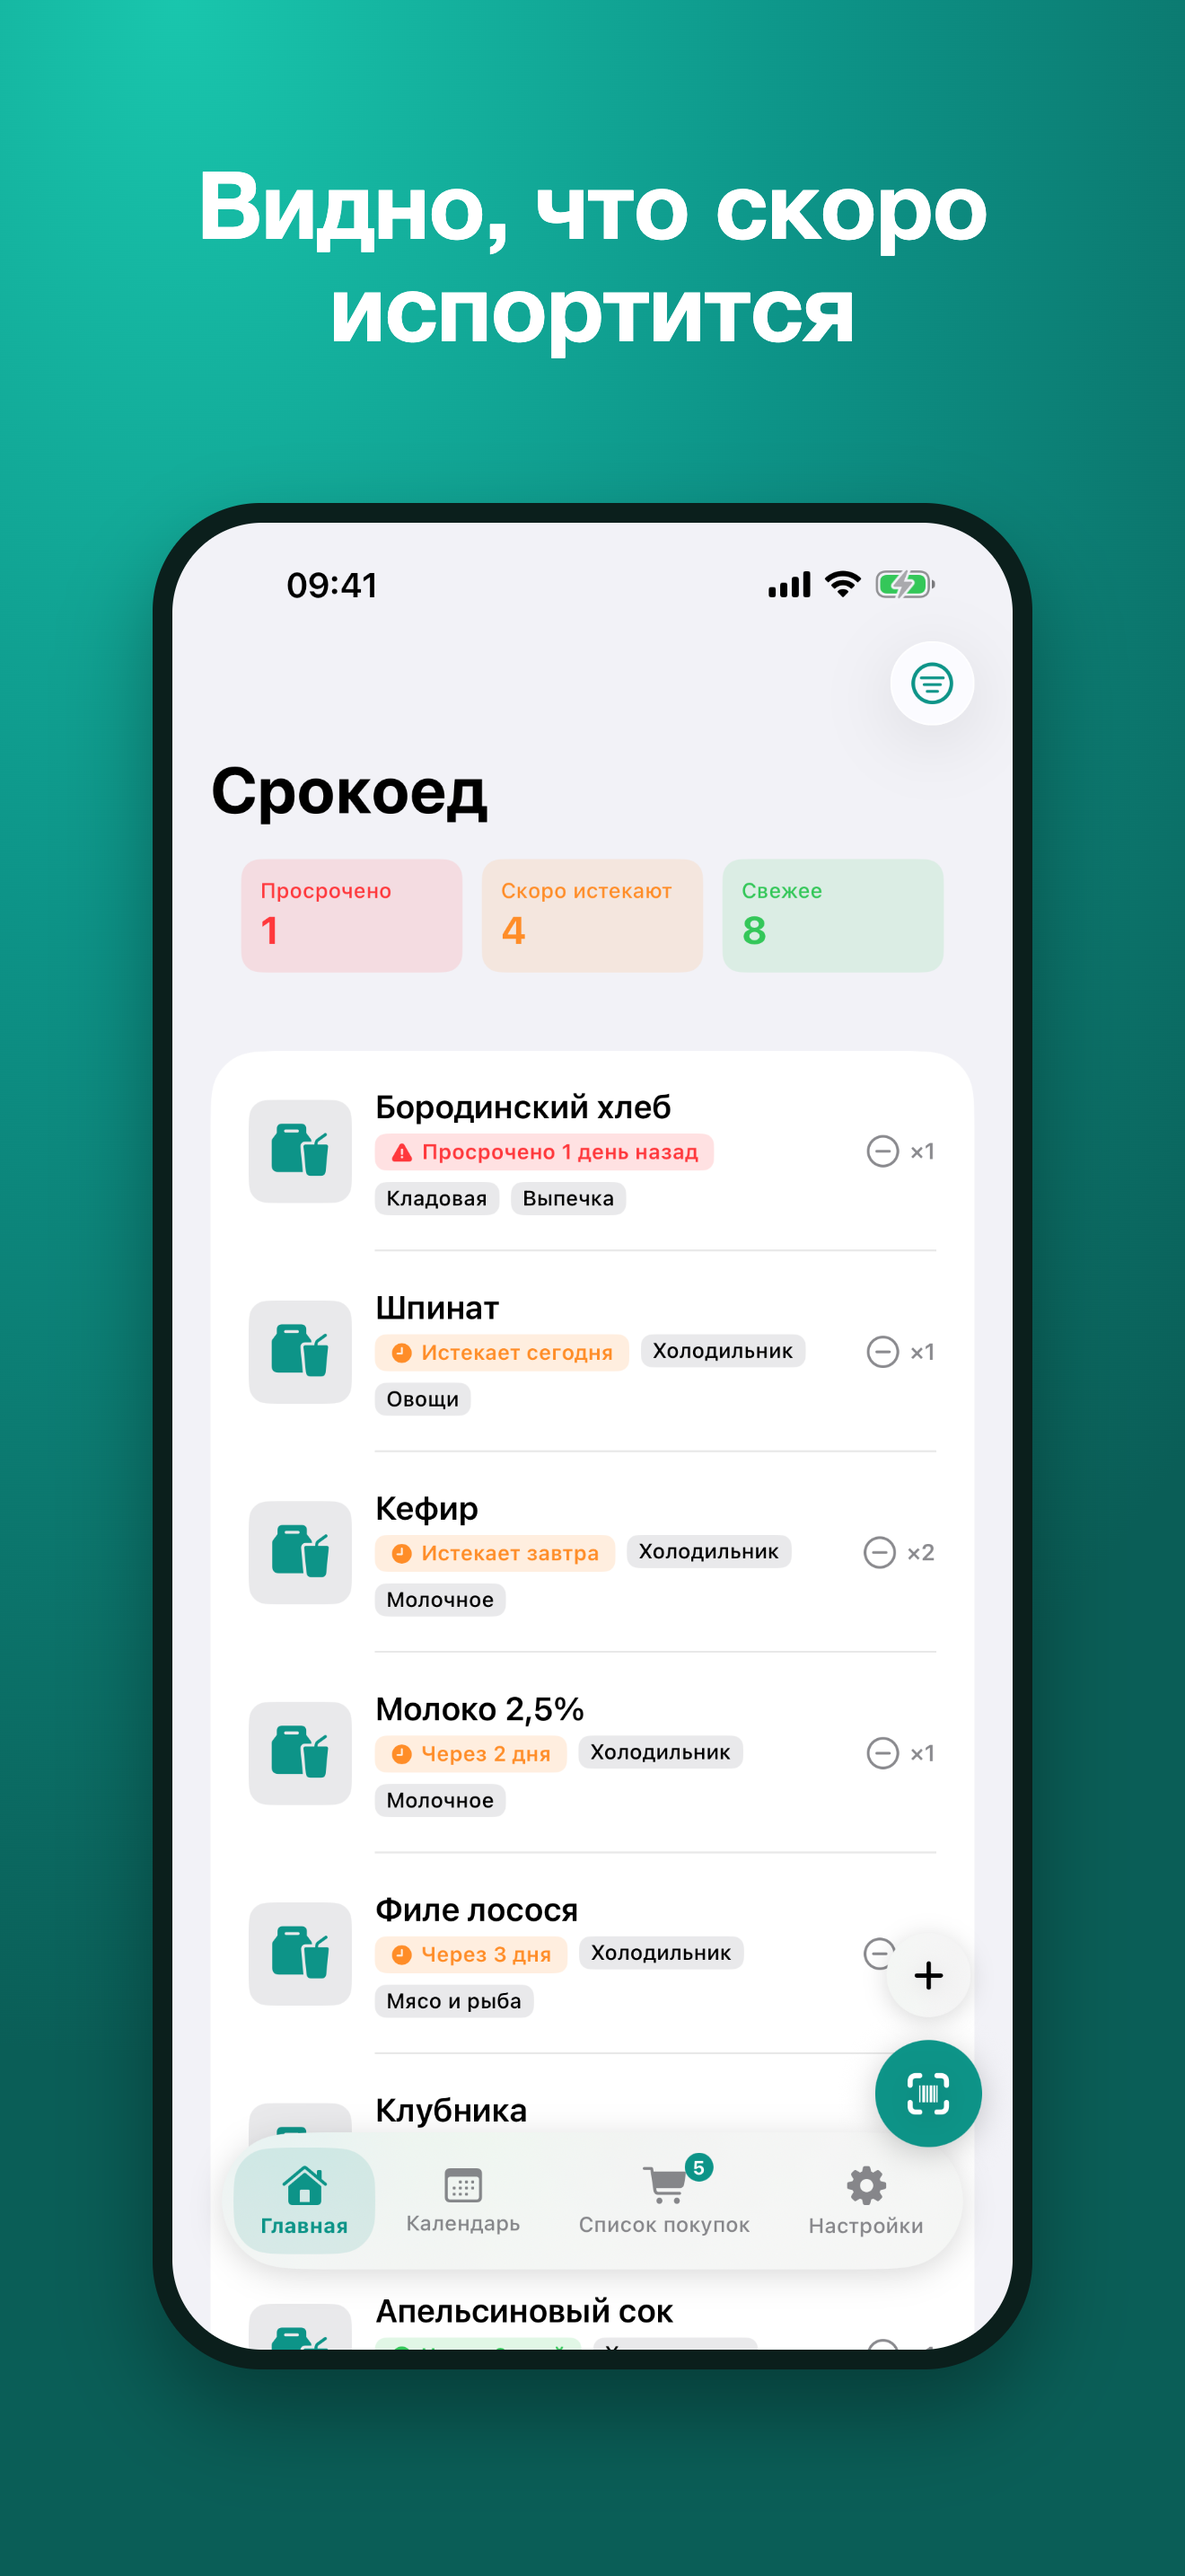
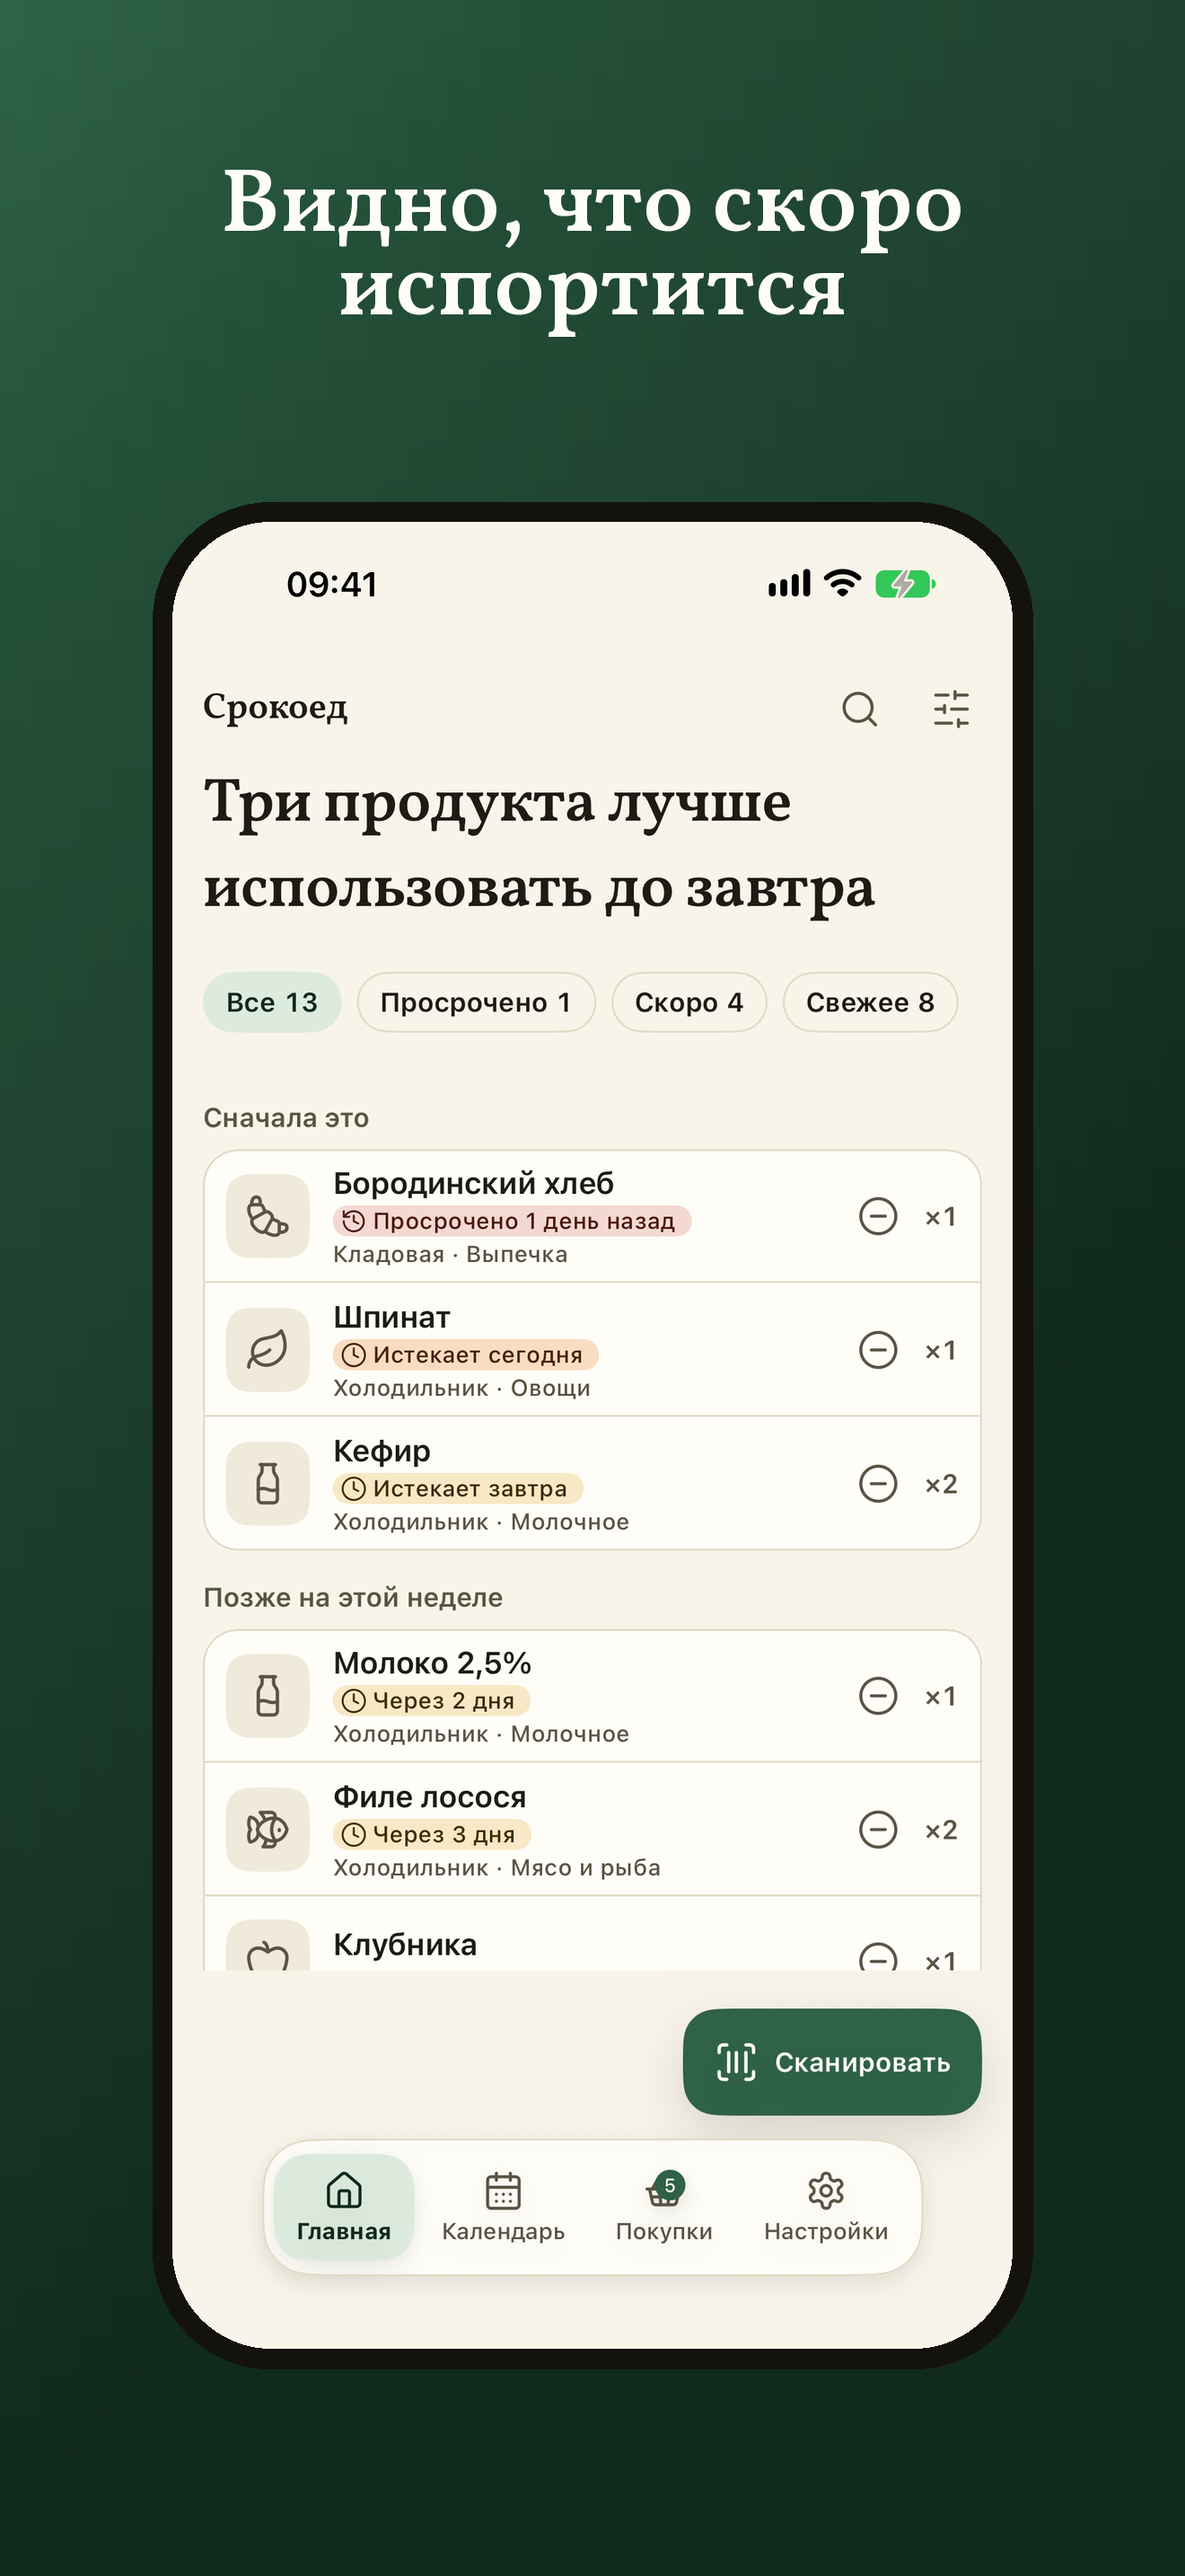
Retake the Play and 6.9" App Store screenshots in Larder
Adds scripts/android_screenshots.sh, which loads the demo pantry
through debug-only demoBackup and demoTab intent extras, the
counterpart of iOS's launch arguments. The demo pantry moves into
scripts/demo_backup.py, shared by both scripts, with fixed item ids.
Frames use Larder's greens and Vollkorn captions, and the framer now
writes the Play set at 1080x1920. The iOS script waits until a fresh
simulator draws before capturing.

Claude-Session: https://claude.ai/code/session_01RnV2HAF2qyceRJWfWWkDND

diff --git a/androidApp/src/main/java/com/foodtracker/android/MainActivity.kt b/androidApp/src/main/java/com/foodtracker/android/MainActivity.kt
@@ -16,7 +16,9 @@ import androidx.compose.runtime.mutableStateOf
 import androidx.core.content.ContextCompat
 import com.foodtracker.android.location.StoreGeofenceManager
 import com.foodtracker.android.ui.FoodTrackerRoot
+import com.foodtracker.android.ui.navigation.AddItemMode
 import com.foodtracker.android.ui.navigation.LarderRoute
+import com.foodtracker.backup.RestoreMode
 import com.foodtracker.android.util.shareRecipePrompt
 import com.foodtracker.viewmodel.PantryStateHolder
 import com.google.android.gms.location.LocationServices
@@ -65,6 +67,7 @@ class MainActivity : ComponentActivity() {
         // app from the launcher landing on Add Item. A newer intent that caused the recreation
         // arrives separately through onNewIntent.
         if (savedInstanceState == null) {
+            if (isDebuggable()) loadDemoFromIntent(intent)
             applyScreenFromIntent(intent)
         }
         // Re-asserted on every start rather than only when Settings changes: geofences are
@@ -84,6 +87,39 @@ class MainActivity : ComponentActivity() {
             )
         }
     }
+
+    /**
+     * Debug builds only, for scripts/android_screenshots.sh: `--es demoBackup <path>` replaces
+     * everything with that backup file, as Settings' Replace restore does, and `--es demoTab
+     * <home|calendar|shopping|settings>` opens that tab, or `edit:<item id>` that item's Edit
+     * screen. The counterpart of iOS's `-demoBackup` and `-demoTab` launch arguments. A restore
+     * also marks onboarding done, so onboarding is skipped from the next launch on.
+     */
+    private fun loadDemoFromIntent(intent: Intent) {
+        intent.getStringExtra(EXTRA_DEMO_BACKUP)?.let { path ->
+            val raw = runCatching { java.io.File(path).readText() }.getOrNull()
+            if (raw == null) {
+                android.util.Log.w("DemoBackup", "Can't read $path")
+            } else {
+                stateHolder.restoreBackup(raw, RestoreMode.REPLACE) { result, summary ->
+                    android.util.Log.i("DemoBackup", "$result, $summary")
+                }
+            }
+        }
+        val tab = intent.getStringExtra(EXTRA_DEMO_TAB)
+        when {
+            tab == null -> Unit
+            tab.startsWith("edit:") ->
+                currentScreenState.value = LarderRoute.AddItem(AddItemMode.Edit(tab.removePrefix("edit:")))
+            tab == "home" -> currentScreenState.value = LarderRoute.Home
+            tab == "calendar" -> currentScreenState.value = LarderRoute.Calendar
+            tab == "shopping" -> currentScreenState.value = LarderRoute.Shopping
+            tab == "settings" -> currentScreenState.value = LarderRoute.Settings
+        }
+    }
+
+    private fun isDebuggable(): Boolean =
+        (applicationInfo.flags and android.content.pm.ApplicationInfo.FLAG_DEBUGGABLE) != 0
 
     /** Re-derives the pantry when the date may have moved under it. See
      *  [PantryStateHolder.refreshToday] for why its own midnight timer isn't enough. */
@@ -234,6 +270,9 @@ class MainActivity : ComponentActivity() {
     }
 
     companion object {
+        private const val EXTRA_DEMO_BACKUP = "demoBackup"
+        private const val EXTRA_DEMO_TAB = "demoTab"
+
         const val EXTRA_OPEN_SHOPPING_LIST = "com.foodtracker.android.EXTRA_OPEN_SHOPPING_LIST"
 
         /** Sent by the expiry widgets' title taps and the expiry/digest notification taps.

diff --git a/scripts/frame_screenshots.py b/scripts/frame_screenshots.py
@@ -1,14 +1,20 @@
 #!/usr/bin/env python3
-"""Frames raw simulator screenshots for the App Store: a caption on the teal gradient above the
-screenshot in a dark device bezel, the same style as the existing 6.9" iPhone and 13" iPad sets.
+"""Frames raw screenshots for the stores: a caption on a Larder green gradient above the
+screenshot in a dark device bezel.
 
     scripts/ios_screenshots.sh build/raw                 # raw captures, one folder per language
     scripts/frame_screenshots.py build/raw duo-inner-screenshots
 
-reads <raw>/<lang>/<n>-<tab>.png (as ios_screenshots.sh writes them) and writes
+    scripts/android_screenshots.sh build/raw-android
+    scripts/frame_screenshots.py build/raw-android phone-screenshots
+
+reads <raw>/<lang>/<n>-<tab>.png (as those scripts write them). An App Store set is written to
 store-listing/app-store/<listing folder>/<set>/<n>.png at the raw screenshot's own size, which
-is the size App Store Connect wants for that device. Needs Pillow; the captions are set in
-Helvetica Neue Bold from macOS.
+is the size App Store Connect wants for that device. The Google Play set, phone-screenshots,
+goes to store-listing/google-play/<listing folder>/phone-screenshots/<n>.png at 1080x1920: Play
+refuses a screenshot more than twice as tall as it is wide, so the phone runs off the bottom
+edge. Needs Pillow. The colours are Larder's (docs/design/tokens.json) and the captions are set
+in Vollkorn SemiBold, the app's display face.
 """
 import sys
 from pathlib import Path
@@ -16,11 +22,15 @@ from pathlib import Path
 from PIL import Image, ImageDraw, ImageFont
 
 ROOT = Path(__file__).resolve().parent.parent
-FONT = "/System/Library/Fonts/HelveticaNeue.ttc"
-FONT_BOLD_INDEX = 1
+FONT = str(ROOT / "iosApp" / "FoodTracker" / "Resources" / "Fonts" / "Vollkorn-SemiBold.ttf")
+FONT_BOLD_INDEX = 0
 
-# ios_screenshots.sh language code -> store-listing/app-store folder
+# Screenshot script language code -> store-listing/app-store folder
 LISTING_FOLDERS = {"en": "en-GB", "ru": "ru", "nb": "no"}
+# The same for store-listing/google-play
+PLAY_FOLDERS = {"en": "en-GB", "ru": "ru-RU", "nb": "no-NO"}
+PLAY_SET = "phone-screenshots"
+PLAY_SIZE = (1080, 1920)
 
 # One caption per tab, in screenshot order (home, calendar, shopping, settings). "\n" is where a
 # caption breaks on a narrow (iPhone-shaped) screenshot; wider ones put it on one line if it fits.
@@ -32,12 +42,24 @@ CAPTIONS = {
     "nb": ["Se hva som\nsnart går ut", "Ukens datoer\nmed et blikk",
            "Brukt opp? Den\nstår på listen", "Påminnelser når\ndet passer deg"],
 }
+# Google Play has a fifth screenshot, an item's Edit screen, fourth in order.
+EDIT_CAPTIONS = {
+    "en": "Date and storage\nin two taps",
+    "ru": "Срок и место —\nв два касания",
+    "nb": "Dato og plassering\nmed to trykk",
+}
 
-# The background runs from the top-left corner towards the bottom, sampled from the existing sets.
-GRADIENT_STOPS = [(0.0, (22, 185, 163)), (0.25, (17, 166, 149)), (0.5, (12, 126, 116)),
-                  (1.0, (10, 94, 87))]
-BEZEL = (11, 31, 28)
-WHITE = (255, 255, 255)
+
+def play_captions(lang):
+    captions = CAPTIONS[lang]
+    return captions[:3] + [EDIT_CAPTIONS[lang]] + captions[3:]
+
+# The background runs from the top-left corner towards the bottom, through Larder's greens
+# (green.600, 700, 800 and 900 in tokens.json).
+GRADIENT_STOPS = [(0.0, (0x2F, 0x62, 0x46)), (0.25, (0x23, 0x4E, 0x37)), (0.5, (0x1F, 0x43, 0x31)),
+                  (1.0, (0x10, 0x2A, 0x1C))]
+BEZEL = (0x14, 0x12, 0x0D)  # neutral.950
+WHITE = (0xFF, 0xFD, 0xF8)  # neutral.0, the warm white the app uses
 
 
 def gradient(width, height):
@@ -74,10 +96,16 @@ def caption_lines(text, font, max_width, wrap):
     return [one_line] if font.getlength(one_line) <= max_width else text.split("\n")
 
 
-def frame(raw_path, caption, out_path):
+def frame(raw_path, caption, out_path, canvas_size=None):
+    """[canvas_size] other than the screenshot's own size is Play's: the phone keeps the
+    screenshot's shape and runs off the bottom edge."""
     shot = Image.open(raw_path).convert("RGB")
-    width, height = shot.size
+    width, height = canvas_size or shot.size
     spec = layout(width, height)
+    if canvas_size:
+        # Measured from the earlier Play set: a phone 72% of the width, starting 22% down.
+        spec.update(font=0.0765 * width, caption_top=0.06 * height, frame_top=0.22 * height,
+                    bezel=0.0167 * width, radius=0.07 * width, wrap=False, play_width=0.722 * width)
     canvas = gradient(width, height)
     draw = ImageDraw.Draw(canvas)
 
@@ -93,8 +121,12 @@ def frame(raw_path, caption, out_path):
     frame_top = max(spec["frame_top"], caption_bottom + 0.05 * height)
     frame_height = spec["frame_height"] - (frame_top - spec["frame_top"])
     bezel = round(spec["bezel"])
-    screen_height = round(frame_height) - 2 * bezel
-    screen_width = round(screen_height * width / height)
+    if "play_width" in spec:
+        screen_width = round(spec["play_width"]) - 2 * bezel
+        screen_height = round(screen_width * shot.height / shot.width)
+    else:
+        screen_height = round(frame_height) - 2 * bezel
+        screen_width = round(screen_height * width / height)
     frame_width = screen_width + 2 * bezel
     left = round((width - frame_width) / 2)
     frame_top = round(frame_top)
@@ -116,13 +148,16 @@ def main():
     if len(sys.argv) != 3:
         sys.exit(__doc__)
     raw_dir, set_name = Path(sys.argv[1]), sys.argv[2]
-    for lang, folder in LISTING_FOLDERS.items():
+    play = set_name == PLAY_SET
+    for lang, folder in (PLAY_FOLDERS if play else LISTING_FOLDERS).items():
+        captions = play_captions(lang) if play else CAPTIONS[lang]
         raws = sorted((raw_dir / lang).glob("[0-9]-*.png"))
-        if len(raws) != len(CAPTIONS[lang]):
-            sys.exit(f"expected {len(CAPTIONS[lang])} screenshots in {raw_dir / lang}, found {len(raws)}")
-        for n, (raw, caption) in enumerate(zip(raws, CAPTIONS[lang]), start=1):
-            out = ROOT / "store-listing" / "app-store" / folder / set_name / f"{n}.png"
-            frame(raw, caption, out)
+        if len(raws) != len(captions):
+            sys.exit(f"expected {len(captions)} screenshots in {raw_dir / lang}, found {len(raws)}")
+        store = "google-play" if play else "app-store"
+        for n, (raw, caption) in enumerate(zip(raws, captions), start=1):
+            out = ROOT / "store-listing" / store / folder / set_name / f"{n}.png"
+            frame(raw, caption, out, PLAY_SIZE if play else None)
             print(out.relative_to(ROOT))
 
 

diff --git a/scripts/demo_backup.py b/scripts/demo_backup.py
@@ -1,0 +1,59 @@
+#!/usr/bin/env python3
+"""Writes the demo pantry that the store screenshots show, as a backup file both apps restore:
+
+    scripts/demo_backup.py <en|ru|nb> <out.json>
+
+Used by scripts/ios_screenshots.sh and scripts/android_screenshots.sh. Dates are relative to
+today, so the "expires today / tomorrow" labels always read right. Item ids are fixed
+("demo-0" to "demo-12", in the order below), so a script can open a given item; demo-4 is the
+salmon.
+"""
+import datetime, json, sys
+lang, out = sys.argv[1], sys.argv[2]
+today = datetime.date.today()
+day = lambda offset: (today + datetime.timedelta(days=offset)).isoformat()
+# Stored keys stay English (the app translates built-in locations and categories itself);
+# only the product names are per language.
+names = {
+    "en": ["Sourdough bread", "Baby spinach", "Greek yoghurt", "Semi-skimmed milk", "Salmon fillet",
+           "Strawberries", "Orange juice", "Free-range eggs", "Cheddar", "Chicken breast",
+           "Frozen peas", "Dark chocolate", "Spaghetti",
+           "Butter", "Bananas", "Tomatoes", "Coffee beans", "Oat milk"],
+    "ru": ["Бородинский хлеб", "Шпинат", "Кефир", "Молоко 2,5%", "Филе лосося",
+           "Клубника", "Апельсиновый сок", "Яйца", "Сыр", "Куриное филе",
+           "Зелёный горошек", "Тёмный шоколад", "Гречка",
+           "Сливочное масло", "Бананы", "Помидоры", "Кофе в зёрнах", "Творог"],
+    "nb": ["Grovbrød", "Babyspinat", "Gresk yoghurt", "Lettmelk", "Laksefilet",
+           "Jordbær", "Appelsinjuice", "Egg", "Gulost", "Kyllingfilet",
+           "Frosne erter", "Mørk sjokolade", "Spagetti",
+           "Smør", "Bananer", "Tomater", "Kaffebønner", "Brunost"],
+}[lang]
+pantry = [  # (storage location, category, days until expiry, quantity)
+    ("Pantry", "Bakery", -1, 1), ("Fridge", "Vegetables", 0, 1), ("Fridge", "Dairy", 1, 2),
+    ("Fridge", "Dairy", 2, 1), ("Fridge", "Meat & fish", 3, 2), ("Fridge", "Fruit", 4, 1),
+    ("Fridge", "Drinks", 6, 1), ("Fridge", "Dairy", 9, 1), ("Fridge", "Dairy", 12, 1),
+    ("Freezer", "Meat & fish", 45, 2), ("Freezer", "Vegetables", 120, 1),
+    ("Pantry", "Sweets", 90, 1), ("Pantry", "Pantry", 300, 2),
+]
+shopping = [("Dairy", 1), ("Fruit", 6), ("Vegetables", 4), ("Drinks", 1), ("Dairy", 2)]
+items = [{
+    "id": f"demo-{i}", "name": names[i], "brand": None, "barcode": None, "imageUrl": None,
+    "expiryDate": day(offset), "addedDate": day(-(i % 5) - 1), "storageLocation": location,
+    "category": category, "quantity": quantity, "notes": None, "essential": True,
+} for i, (location, category, offset, quantity) in enumerate(pantry)]
+entries = [{
+    "id": f"demo-entry-{i}", "productName": names[len(pantry) + i], "barcode": None,
+    "category": category, "quantity": quantity, "addedDate": day(0), "sortOrder": float(i),
+} for i, (category, quantity) in enumerate(shopping)]
+document = {
+    "version": 1, "exportedAtEpochMillis": 0, "items": items, "shoppingList": entries,
+    "categoryPreferences": [], "products": [], "knownProductNames": [],
+    "settings": {
+        "notifications": {"enabled": True, "leadDays": 1, "hour": 9, "minute": 0},
+        "expiringSoonDays": 3, "storageLocations": ["Fridge", "Freezer", "Pantry"],
+        "defaultStorageLocation": "Pantry", "rememberLastStorageLocation": True,
+        "lastUsedStorageLocation": None, "theme": "SYSTEM", "sortOption": "EXPIRY_DATE",
+        "allergens": [], "stores": [], "storeRemindersEnabled": False,
+    },
+}
+json.dump(document, open(out, "w"), ensure_ascii=False)
